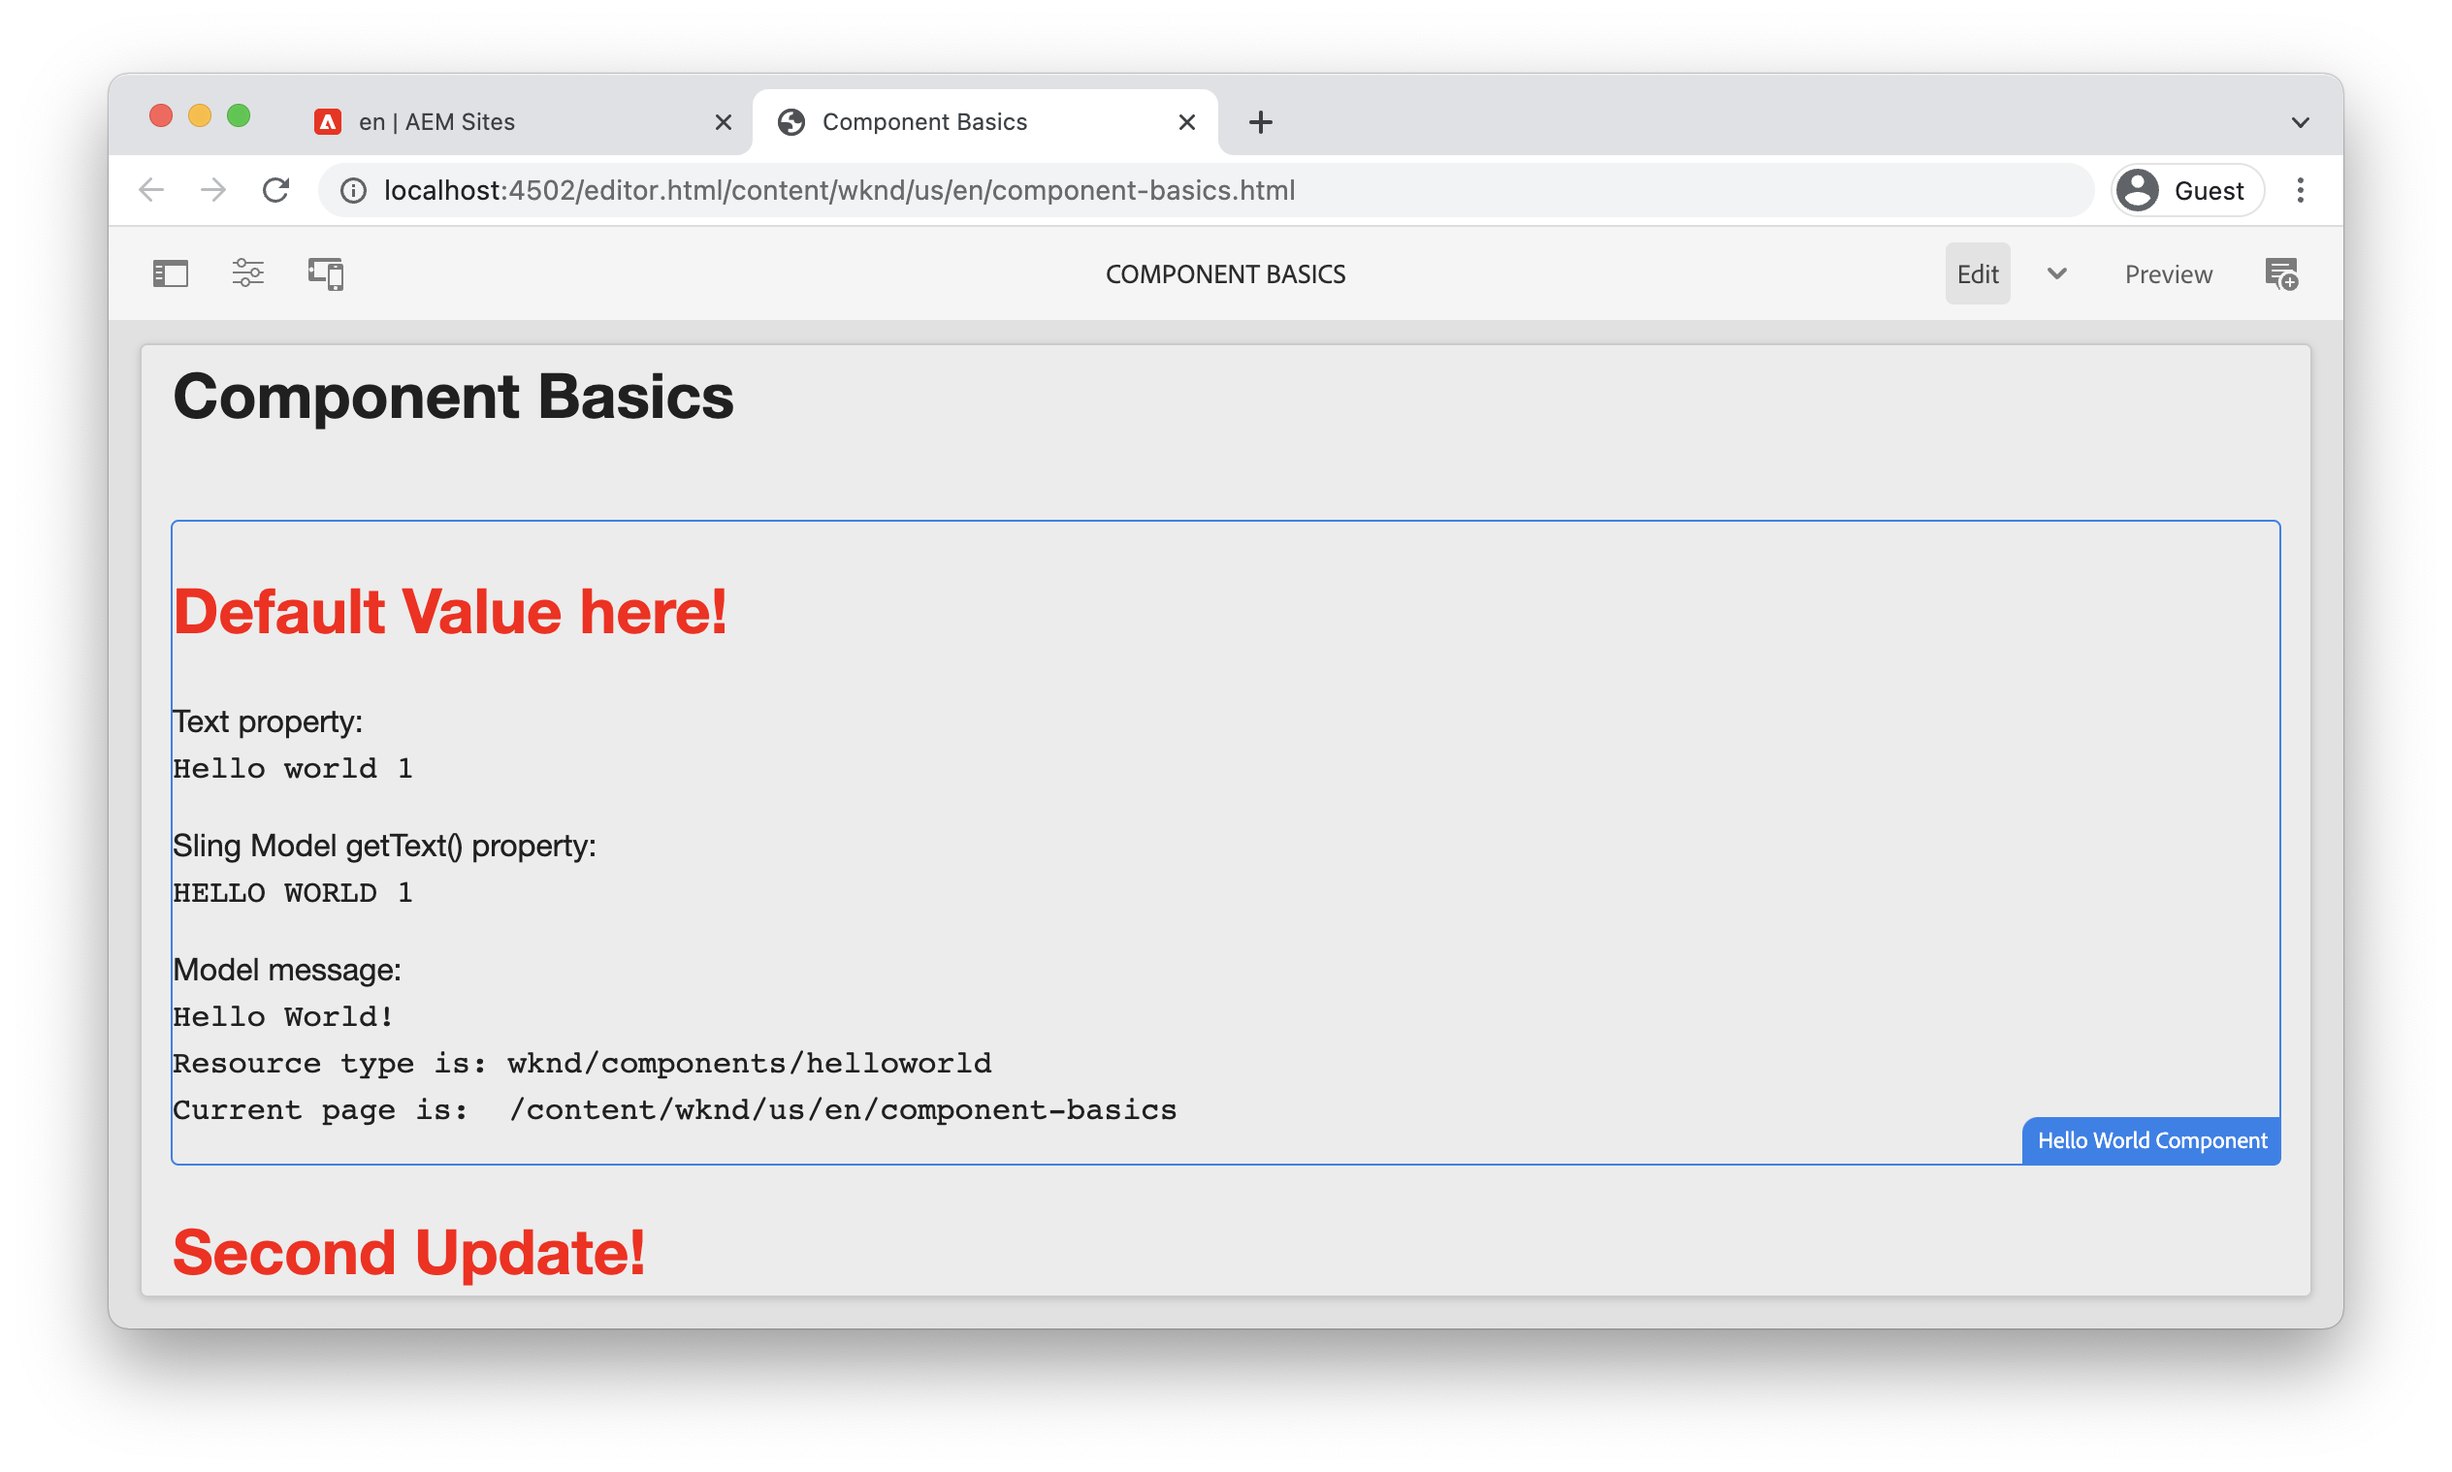
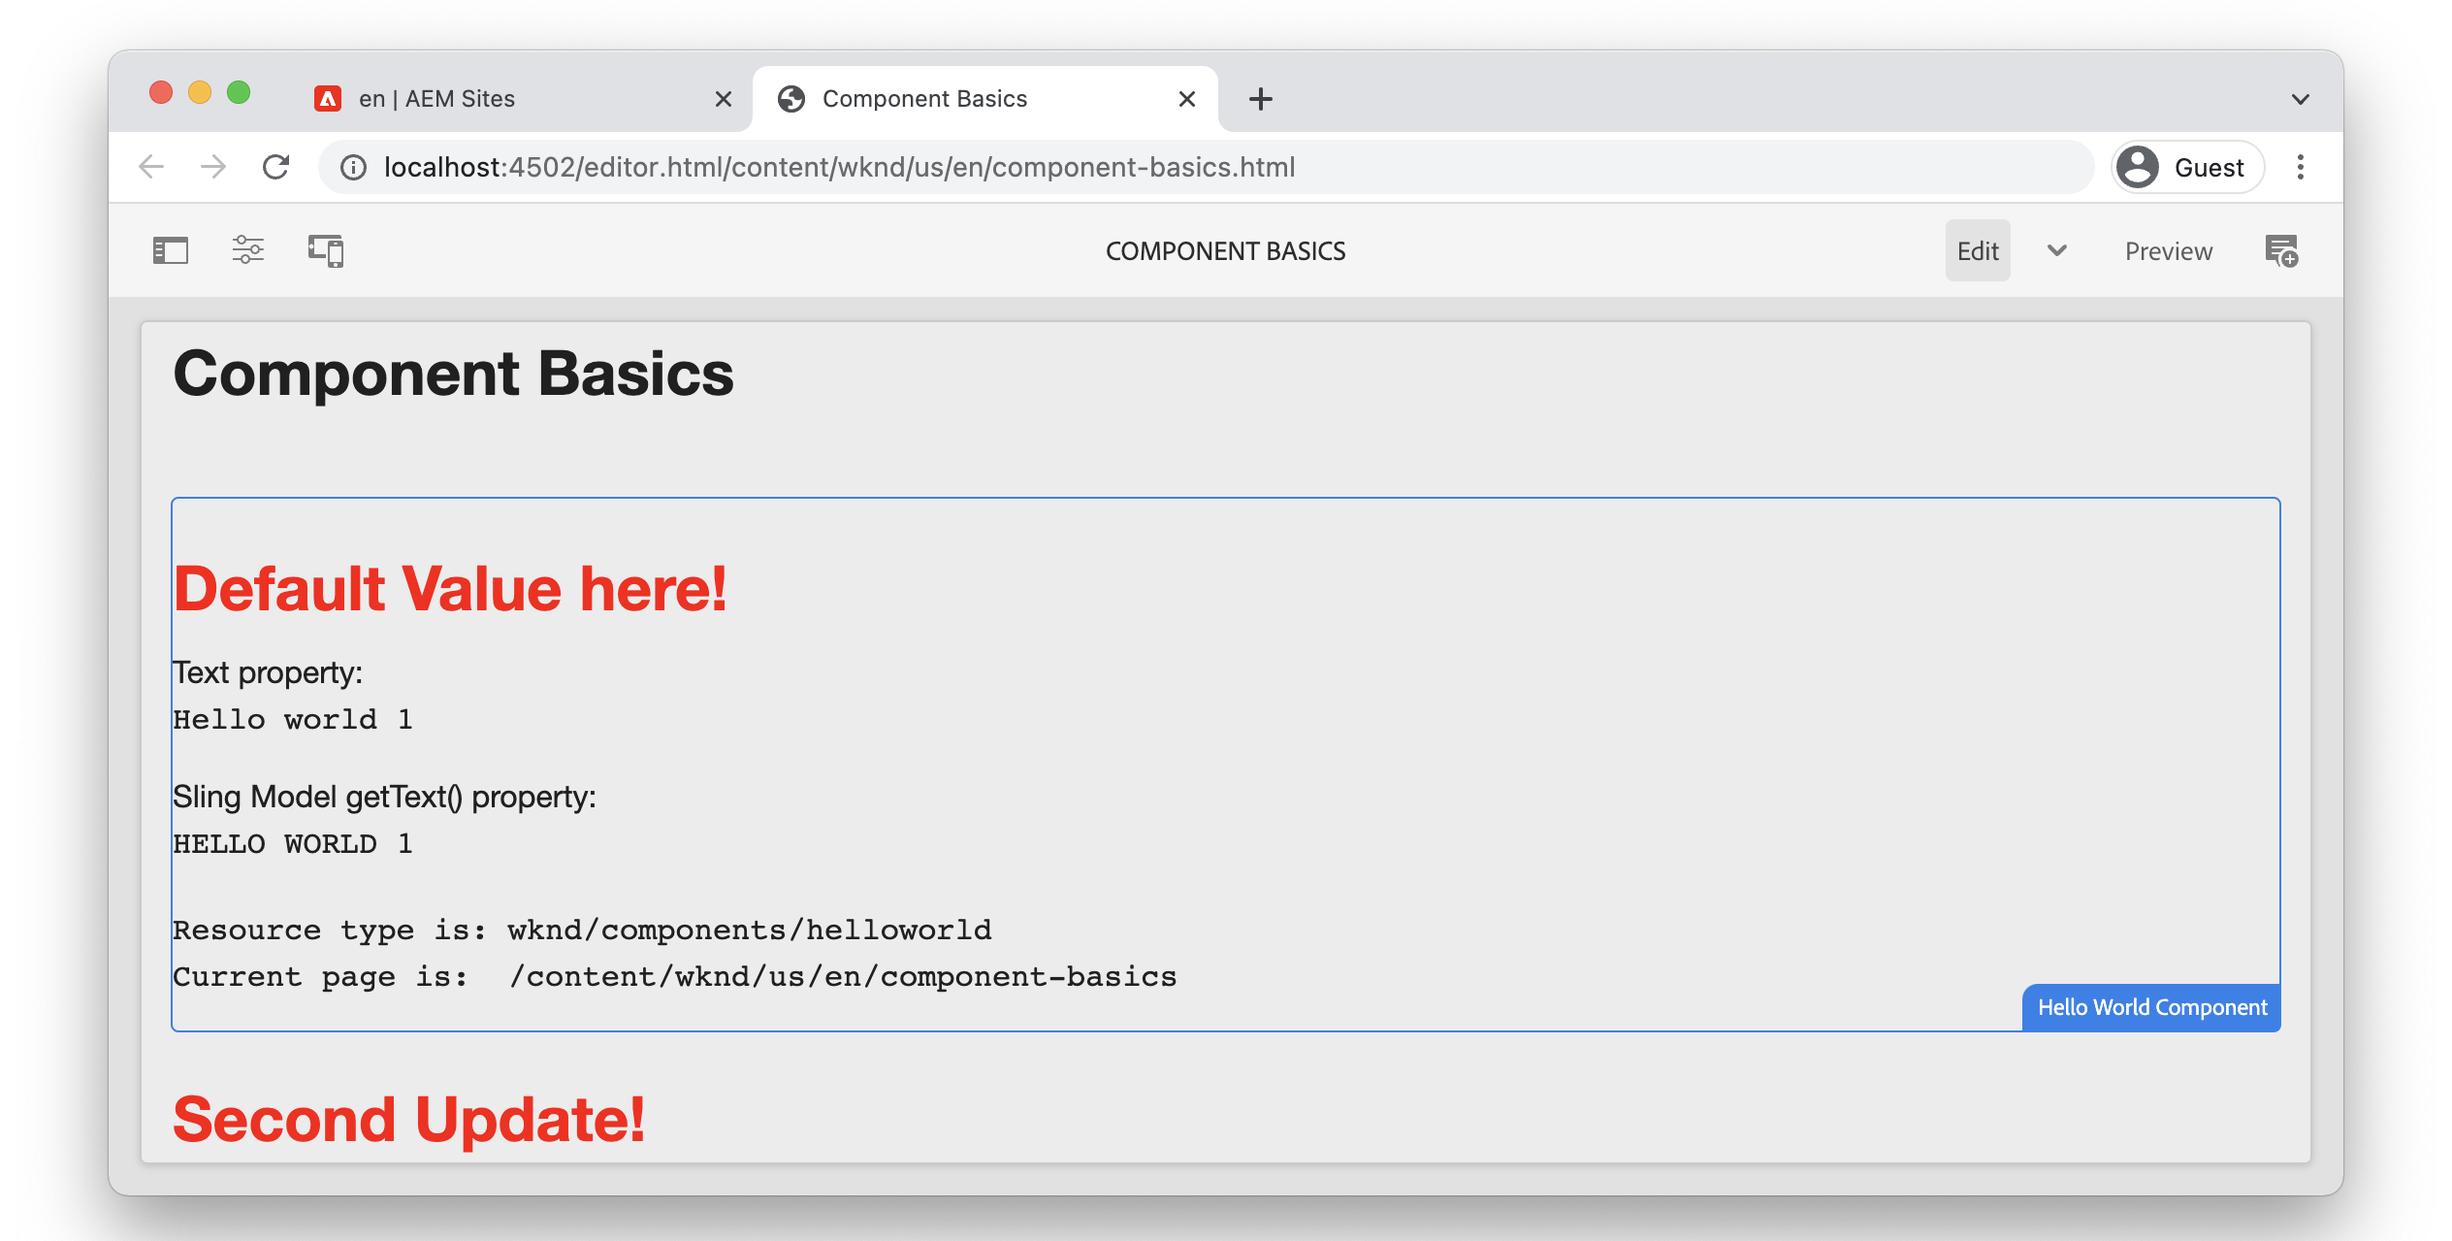
2023-03 - customer feedback from Qualtrics (#1119)
* customer feedback

diff --git a/help/sites/seo/sitemaps.md b/help/sites/seo/sitemaps.md
@@ -15,33 +15,15 @@ exl-id: 40bb55f9-011d-4261-9f44-b1104a591252
 
 Learn how to help boost your SEO by creating sitemaps for AEM Sites.
 
+>[!WARNING]
+>
+>This video demonstrates use of relative URls in the sitemap. Sitemaps [should use absolute URLs](https://sitemaps.org/protocol.html). See [Configurations](#absolute-sitemap-urls) for how to enable absolute URLs, as this is not covered in the video below.
+
 >[!VIDEO](https://video.tv.adobe.com/v/337960?quality=12&learn=on)
-
-## Resources
-
-+ [AEM Sitemap Documentation](https://experienceleague.adobe.com/docs/experience-manager-cloud-service/overview/seo-and-url-management.html?lang=en#building-an-xml-sitemap-on-aem)
-+ [Apache Sling Sitemap documentation](https://github.com/apache/sling-org-apache-sling-sitemap#readme)
-+ [Sitemap.org Sitemap documentation](https://www.sitemaps.org/protocol.html)
-+ [Sitemap.org Sitemap index file documentation](https://www.sitemaps.org/protocol.html#index)
-+ [Cronmaker](http://www.cronmaker.com/)
 
 ## Configurations
 
-### Sitemap scheduler OSGi configuration
-
-Defines the [OSGi factory configuration](http://localhost:4502/system/console/configMgr/org.apache.sling.sitemap.impl.SitemapScheduler) for the frequency (using [cron expressions](http://www.cronmaker.com)) sitemaps are re/generated and cached in AEM. 
-
-`ui.config/src/main/jcr_content/apps/wknd/osgiconfig/config.publish`
-
-```json
-{
-  "scheduler.name": "WKND Sitemaps",
-  "scheduler.expression": "0 0 2 1/1 * ? *",
-  "searchPath": "/content/wknd"
-}
-```
-
-### Absolute sitemap URLs
+### Absolute sitemap URLs{#absolute-sitemap-urls}
 
 AEM's sitemap supports absolute URL's by using [Sling mapping](https://sling.apache.org/documentation/the-sling-engine/mappings-for-resource-resolution.html). This is done by creating mapping nodes on the AEM services generating sitemaps (typically the AEM Publish service).
 
@@ -57,6 +39,20 @@ The screenshot below illustrates a similar configuration but for `http://wknd.lo
 
 ![Sitemap absolute URLs configuration](../assets/sitemaps/sitemaps-absolute-urls.jpg)
 
+
+### Sitemap scheduler OSGi configuration
+
+Defines the [OSGi factory configuration](http://localhost:4502/system/console/configMgr/org.apache.sling.sitemap.impl.SitemapScheduler) for the frequency (using [cron expressions](http://www.cronmaker.com)) sitemaps are re/generated and cached in AEM. 
+
+`ui.config/src/main/jcr_content/apps/wknd/osgiconfig/config.publish`
+
+```json
+{
+  "scheduler.name": "WKND Sitemaps",
+  "scheduler.expression": "0 0 2 1/1 * ? *",
+  "searchPath": "/content/wknd"
+}
+```
 
 ### Dispatcher allow filter rule
 
@@ -82,3 +78,11 @@ Ensure `.xml` sitemap HTTP requests are routed to the correct underlying AEM pag
 RewriteCond %{REQUEST_URI} (.html|.jpe?g|.png|.svg|.xml)$
 RewriteRule ^/(.*)$ /content/${CONTENT_FOLDER_NAME}/$1 [PT,L]
 ```
+
+## Resources
+
++ [AEM Sitemap Documentation](https://experienceleague.adobe.com/docs/experience-manager-cloud-service/overview/seo-and-url-management.html?lang=en#building-an-xml-sitemap-on-aem)
++ [Apache Sling Sitemap documentation](https://github.com/apache/sling-org-apache-sling-sitemap#readme)
++ [Sitemap.org Sitemap documentation](https://www.sitemaps.org/protocol.html)
++ [Sitemap.org Sitemap index file documentation](https://www.sitemaps.org/protocol.html#index)
++ [Cronmaker](http://www.cronmaker.com/)

diff --git a/help/getting-started-wknd-tutorial-develop/project-archetype/component-basics.md b/help/getting-started-wknd-tutorial-develop/project-archetype/component-basics.md
@@ -249,11 +249,17 @@ Next, let's make some updates to the `HelloWorldModel` Sling Model in order to a
     >
     > For AEM 6.4/6.5 use `mvn clean install -PautoInstallBundle -Pclassic`
 
-1.  Update the file `helloworld.html` at `aem-guides-wknd.ui.apps/src/main/content/jcr_root/apps/wknd/components/content/helloworld/helloworld.html` to use the newly created methods of the `HelloWorld` model:
+1.  Update the file `helloworld.html` at `aem-guides-wknd.ui.apps/src/main/content/jcr_root/apps/wknd/components/content/helloworld/helloworld.html` to use the newly created methods of the `HelloWorld` model.
+
+    The `HelloWorld` model is instantiated for this component instance via the HTL directive: `data-sly-use.model="com.adobe.aem.guides.wknd.core.models.HelloWorldModel"`, saving the instance to the variable `model`.
+
+    The `HelloWorld` model instance is now available in the HTL via the `model` variable using the `HelloWord`. These methods invocations can use shortened method syntax for example: `${model.getTitle()}` can be shorted to `${model.title}`.
+
+    Similarly, all HTL scripts are injected with [global objects](https://experienceleague.adobe.com/docs/experience-manager-htl/content/global-objects.html) that can be accessed using the same syntax as the Sling Model objects.
 
     ```html
-    <div class="cmp-helloworld" data-cmp-is="helloworld"
-    data-sly-use.model="com.adobe.aem.guides.wknd.core.models.HelloWorldModel">
+    <div class="cmp-helloworld" data-cmp-is="helloworld" 
+        data-sly-use.model="com.adobe.aem.guides.wknd.core.models.HelloWorldModel">
         <h1 class="cmp-helloworld__title">${model.title}</h1>
         <div class="cmp-helloworld__item" data-sly-test="${properties.text}">
             <p class="cmp-helloworld__item-label">Text property:</p>
@@ -262,10 +268,6 @@ Next, let's make some updates to the `HelloWorldModel` Sling Model in order to a
         <div class="cmp-helloworld__item" data-sly-test="${model.text}">
             <p class="cmp-helloworld__item-label">Sling Model getText() property:</p>
             <pre class="cmp-helloworld__item-output" data-cmp-hook-helloworld="property">${model.text}</pre>
-        </div>
-        <div class="cmp-helloworld__item"  data-sly-test="${model.message}">
-            <p class="cmp-helloworld__item-label">Model message:</p>
-            <pre class="cmp-helloworld__item-output"data-cmp-hook-helloworld="model">${model.message}</pre>
         </div>
     </div>
     ```

diff --git a/help/sites/translation/multi-site-manager-feature-video-use.md b/help/sites/translation/multi-site-manager-feature-video-use.md
@@ -1,5 +1,5 @@
 ---
-title: Using Multi-Site Manager with AEM Sites
+title: Using Multi Site Manager with AEM Sites
 seo-title: Using Multi Site Manager Touch UI Interfaces with Adobe Experience Manager
 description: Live Copy Overview and Blueprint Configuration Manager are Touch UI Enabled interfaces for working with Multi Site Manager.
 seo-description: Live Copy Overview and Blueprint Configuration Manager are Touch UI Enabled interfaces for working with Multi Site Manager with Adobe Experience Manager.
@@ -16,9 +16,9 @@ role: User
 level: Beginner
 exl-id: 00746678-da23-4d0a-b775-e1de4ed87c56
 ---
-# Using Multi-Site Manager {#using-multi-site-manager-with-aem-sites}
+# Using Multi Site Manager {#using-multi-site-manager-with-aem-sites}
 
-[!UICONTROL Live Copy Overview] and [!UICONTROL Blueprint Configuration Manager] are AEM Author interfaces for working with Multi Site Manager feature of Adobe Experience Manager Sites.
+Live Copy Overview and Blueprint Configuration Manager are AEM Author interfaces for working with [Multi Site Manager](https://experienceleague.adobe.com/docs/experience-manager-cloud-service/content/sites/administering/reusing-content/msm-and-translation.html) in Adobe Experience Manager Sites.
 
 ## Live Copy Overview {#live-copy-overview}
 

diff --git a/help/assets/sharing/asset-share/asset-share-commons-asset-kits.md b/help/assets/sharing/asset-share/asset-share-commons-asset-kits.md
@@ -1,6 +1,6 @@
 ---
 title: Asset Share Commons Asset Kit
-description: Learn how to use Asset Share Common's asset kit functionality to generate bespoke, shareable web pages that list assets from AEM Assets folders or collections.
+description: Learn how to use Asset Share Common's asset kit to generate bespoke, shareable web pages that list assets from AEM Assets folders or collections.
 version: Cloud Service
 topic: Content Management
 role: Admin, Architect, Developer, User
@@ -13,6 +13,8 @@ thumbnail: 3415467.jpeg
 
 # Asset Share Commons Asset Kit
 
-Learn how to use Asset Share Common's asset kit functionality to generate bespoke, shareable web pages that list assets from AEM Assets folders or collections.
+Learn how to use Asset Share Common's [asset kit](https://opensource.adobe.com/asset-share-commons/pages/asset-kit/overview/) to generate bespoke, shareable web pages that list assets from AEM Assets folders or collections.
 
 >[!VIDEO](https://video.tv.adobe.com/v/3415467?quality=12&learn=on)
+
+_[Asset kit](https://opensource.adobe.com/asset-share-commons/pages/asset-kit/overview/) is only available on Asset Share Commons 2.5.4+_

diff --git a/help/foundation/security/develop-for-cross-origin-resource-sharing.md b/help/foundation/security/develop-for-cross-origin-resource-sharing.md
@@ -111,9 +111,8 @@ It is likely clearing the cache entirely is required to ensure headers are appro
 
 ## Supporting materials {#supporting-materials}
 
-* [AEM OSGi Configuration factory for Cross-Origin Resource Sharing Policies](http://localhost:4502/system/console/configMgr/com.adobe.granite.cors.impl.CORSPolicyImpl)
 * [Jeeves for macOS](https://apps.apple.com/us/app/jeeves-local-http-server/id980824182?mt=12)
-* [Python SimpleHTTPServer](https://docs.python.org/2/library/simplehttpserver.html) (Windows/macOS/Linux compatible)
+* [Python SimpleHTTPServer](https://docs.python.o:qrg/2/library/simplehttpserver.html) (Windows/macOS/Linux compatible)
 
 * [Understanding Cross-Origin Resource Sharing (CORS) in AEM](./understand-cross-origin-resource-sharing.md)
 * [Cross-Origin Resource Sharing (W3C)](https://www.w3.org/TR/cors/)

diff --git a/help/foundation/overview.md b/help/foundation/overview.md
@@ -19,9 +19,6 @@ Adobe Experience Manager provides a common set of capabilities available to user
 * **[Understand Cloud Manager for AEM (Video)](./cloud-manager/understand-cloud-manager-for-aem.md)**  
     *Cloud Manager for AEM allows easy management, inspection, and self-service of AEM environments.*
 
-* **[Set up public and private keys for use with Adobe I/O (Tutorial)](./authentication/set-up-public-private-keys-for-use-with-aem-and-adobe-io.md)**  
-    *Learn how keys and keystores are generated using [!DNL openssl] that work with AEM and Adobe I/O.*
-
 * **[Use the Cloud Manager CI/CD Pipeline (Video)](./cloud-manager/use-the-cicd-pipeline-in-cloud-manager-for-aem.md)**  
     *Learn how to use Cloud Manager's CI/CD pipeline to ensure safe and consistent deployments.*
 

diff --git a/help/cloud-service/migration/moving-to-aem-as-a-cloud-service/content-migration/bulk-import-service.md b/help/cloud-service/migration/moving-to-aem-as-a-cloud-service/content-migration/bulk-import-service.md
@@ -29,5 +29,6 @@ The Bulk Import Service is used to transfer files stored in Azure Blob Storage o
 
 ## Other Resources
 
-+ [Adobe Developers Live session on Asset Ingestion](https://experienceleague.adobe.com/docs/adobe-developers-live-events/events/2021/feb2021/asset-bulk-ingestion.html?lang=en)
++ [Bulk import service configuration options](https://experienceleague.adobe.com/docs/experience-manager-cloud-service/content/assets/manage/add-assets.html#configure-bulk-ingestor-tool)
++ [Adobe Developers Live session on Asset Ingestion](https://experienceleague.adobe.com/docs/adobe-developers-live-events/events/2021/feb2021/asset-bulk-ingestion.html)
     

diff --git a/help/cloud-service/accessing/overview.md b/help/cloud-service/accessing/overview.md
@@ -28,6 +28,11 @@ Learn how Adobe IMS users, groups and product profiles are used in concert with 
 
 Users requiring access to AEM Author service are managed as [Adobe IMS users](https://helpx.adobe.com/enterprise/using/set-up-identity.html) in [Adobe's AdminConsole](https://adminconsole.adobe.com). Learn about what Adobe IMS users are, and how they are accessed and managed in Admin Console.
 
+>[!NOTE]
+>
+>When an IMS user is deleted from AdminConsole, it is not automatically deleted from AEM, but once AEM session(token) is expired they can NOT login to AEM.
+
+
 [Learn about Adobe IMS users](./adobe-ims-users.md)
 
 ## Adobe IMS user groups

diff --git a/help/foundation/TOC.md b/help/foundation/TOC.md
@@ -18,7 +18,6 @@ index: y
 + Authentication {#authentication}
   + [OKTA and AEM](authentication/okta-saml-integration.md)
   + [OAuth scopes](authentication/oauth-code-sample-develop.md)
-  + [Set up Public/Private Keys to use with Adobe I/O](authentication/set-up-public-private-keys-for-use-with-aem-and-adobe-io.md)
   + [Understanding Authentication](authentication/authentication-support-article-understand.md)
   + [Understand IMS Authentication on AMS](authentication/adobe-ims-authentication-technical-video-understand.md)
 + Adobe Cloud Manager{#cloud-manager}

diff --git a/help/getting-started-wknd-tutorial-develop/project-archetype/project-setup.md b/help/getting-started-wknd-tutorial-develop/project-archetype/project-setup.md
@@ -81,6 +81,8 @@ The next series of steps will take place using a UNIX&reg; based command-line  t
     >[!NOTE]
     >
     > To target AEM 6.5.14+ replace `aemVersion="cloud"` with `aemVersion="6.5.14"`.
+    >
+    > Also, always use the latest `archetypeVersion` by referring to the [AEM Project Archetype > Usage](https://github.com/adobe/aem-project-archetype#usage)
 
     A full list of available properties for configuring a project [can be found here](https://github.com/adobe/aem-project-archetype#available-properties).
 
